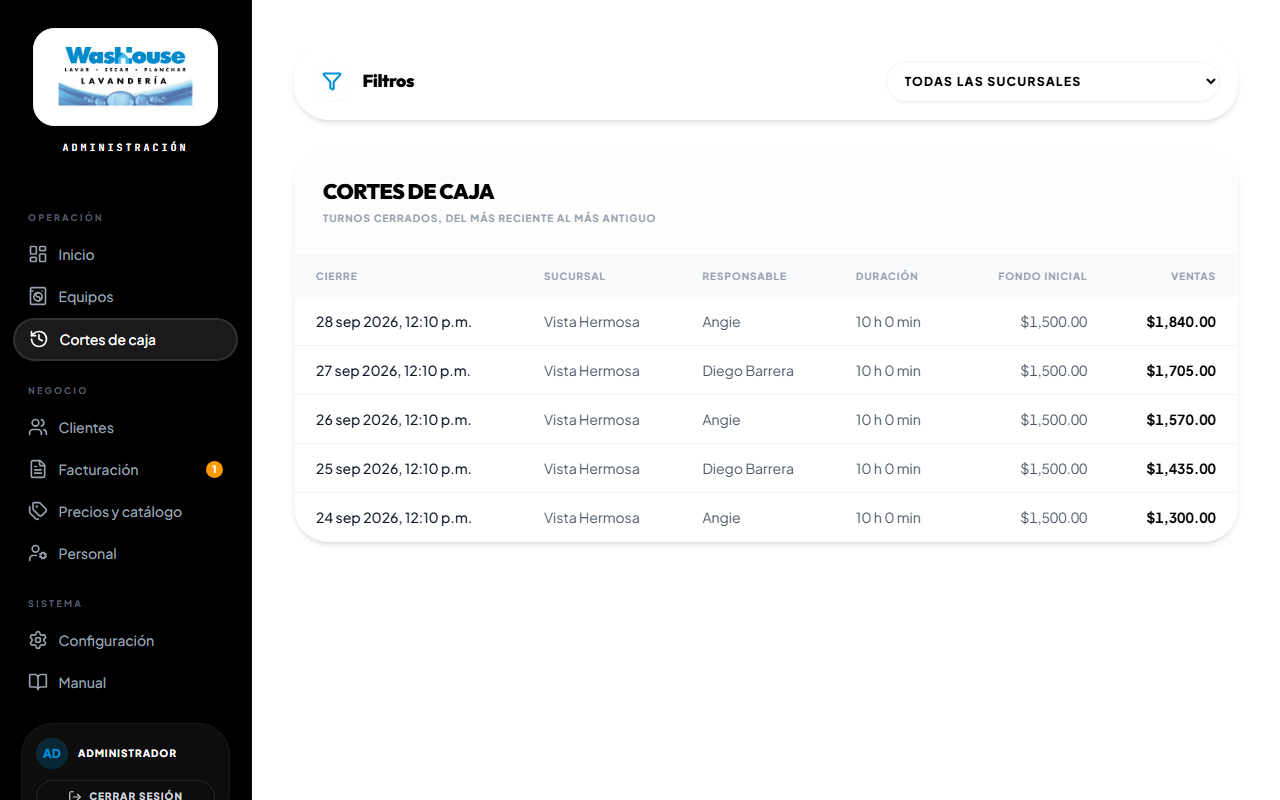
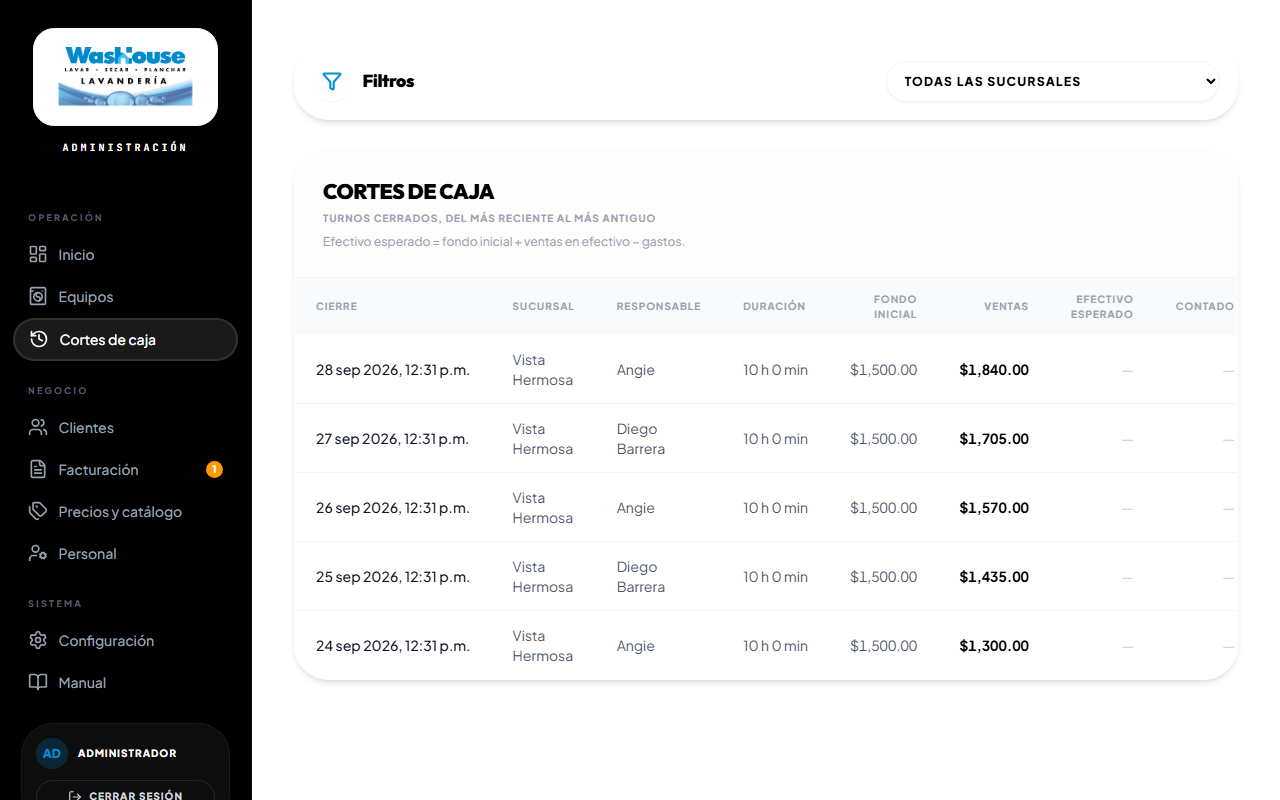
feat: el corte de caja guarda efectivo contado, esperado, diferencia y desglose
Antes solo se guardaban fondo y total vendido. Cortes de caja e Inicio
muestran ahora si el efectivo cuadró, con faltante o sobrante.

diff --git a/src/pages/ShiftsPage.jsx b/src/pages/ShiftsPage.jsx
@@ -6,6 +6,19 @@ import { formatCurrency } from '../utils/formatCurrency';
 
 const fmt = (value) => new Date(value).toLocaleString('es-MX', { dateStyle: 'medium', timeStyle: 'short' });
 
+const hasCount = (s) => s.finalCash !== null && s.finalCash !== undefined;
+
+export function DifferenceBadge({ value }) {
+    if (value === null || value === undefined) return <span className="text-gray-300">—</span>;
+    const n = Number(value);
+    if (Math.abs(n) < 0.005) return <span className="font-bold text-emerald-600">Cuadró</span>;
+    return (
+        <span className={`font-black tabular-nums ${n < 0 ? 'text-red-600' : 'text-amber-600'}`}>
+            {n > 0 ? '+' : ''}{formatCurrency(n)} {n < 0 ? 'faltante' : 'sobrante'}
+        </span>
+    );
+}
+
 const duration = (start, end) => {
     const minutes = Math.round((new Date(end) - new Date(start)) / 60000);
     if (!Number.isFinite(minutes) || minutes < 0) return '—';
@@ -28,6 +41,7 @@ export default function ShiftsPage() {
                 <div className="p-8 border-b border-gray-100 bg-gray-50/30">
                     <h1 className="text-xl font-black text-washouse-navy font-outfit tracking-tight uppercase">Cortes de caja</h1>
                     <p className="text-[10px] text-gray-400 font-bold uppercase tracking-widest mt-1">Turnos cerrados, del más reciente al más antiguo</p>
+                    <p className="text-xs text-gray-400 mt-2">Efectivo esperado = fondo inicial + ventas en efectivo − gastos.</p>
                 </div>
                 {rows.length === 0 ? (
                     <div className="p-12 text-center text-gray-500">
@@ -45,6 +59,9 @@ export default function ShiftsPage() {
                                     <th className="px-6 py-4">Duración</th>
                                     <th className="px-6 py-4 text-right">Fondo inicial</th>
                                     <th className="px-6 py-4 text-right">Ventas</th>
+                                    <th className="px-6 py-4 text-right">Efectivo esperado</th>
+                                    <th className="px-6 py-4 text-right">Contado</th>
+                                    <th className="px-6 py-4 text-right">Diferencia</th>
                                 </tr>
                             </thead>
                             <tbody className="divide-y divide-gray-100">
@@ -55,7 +72,17 @@ export default function ShiftsPage() {
                                         <td className="px-6 py-4">{s.closedBy || 'Sin nombre'}</td>
                                         <td className="px-6 py-4 whitespace-nowrap">{duration(s.startTime, s.endedAt)}</td>
                                         <td className="px-6 py-4 text-right tabular-nums">{formatCurrency(s.initialCash || 0)}</td>
-                                        <td className="px-6 py-4 text-right tabular-nums font-bold text-washouse-navy">{formatCurrency(s.totalSales || 0)}</td>
+                                        <td className="px-6 py-4 text-right tabular-nums">
+                                            <div className="font-bold text-washouse-navy">{formatCurrency(s.totalSales || 0)}</div>
+                                            {hasCount(s) && (
+                                                <div className="text-[11px] text-gray-400 whitespace-nowrap">
+                                                    Efec. {formatCurrency(s.cashSales || 0)} · Tarj. {formatCurrency(s.cardSales || 0)} · Transf. {formatCurrency(s.transferSales || 0)}
+                                                </div>
+                                            )}
+                                        </td>
+                                        <td className="px-6 py-4 text-right tabular-nums">{hasCount(s) ? formatCurrency(s.expectedDrawer || 0) : <span className="text-gray-300">—</span>}</td>
+                                        <td className="px-6 py-4 text-right tabular-nums">{hasCount(s) ? formatCurrency(s.finalCash) : <span className="text-gray-300">—</span>}</td>
+                                        <td className="px-6 py-4 text-right whitespace-nowrap"><DifferenceBadge value={s.difference} /></td>
                                     </tr>
                                 ))}
                             </tbody>

diff --git a/src/pages/AdminDashboard.jsx b/src/pages/AdminDashboard.jsx
@@ -11,6 +11,7 @@ import { exportToCSV } from '../utils/exportUtils';
 import { periodRange, inRange, daysInRange, localDayKey, PERIOD_OPTIONS } from '../utils/periods';
 import GlobalFilterBar from '../components/admin/GlobalFilterBar';
 import BranchLockout from '../components/BranchLockout';
+import { DifferenceBadge } from './ShiftsPage';
 
 const METHODS = [
     { id: 'cash', label: 'Efectivo', icon: Banknote, color: 'bg-emerald-500' },
@@ -310,7 +311,10 @@ export default function AdminDashboard() {
                                             <span className="font-bold text-washouse-navy">{s.closedBy || 'Sin nombre'}</span>
                                             <span className="font-black tabular-nums">{formatCurrency(s.totalSales || 0)}</span>
                                         </div>
-                                        <div className="text-xs text-gray-400">{new Date(s.endedAt).toLocaleString('es-MX', { dateStyle: 'medium', timeStyle: 'short' })}</div>
+                                        <div className="flex items-center justify-between text-xs">
+                                            <span className="text-gray-400">{new Date(s.endedAt).toLocaleString('es-MX', { dateStyle: 'medium', timeStyle: 'short' })}</span>
+                                            <DifferenceBadge value={s.difference} />
+                                        </div>
                                     </div>
                                 ))}
                             </div>

diff --git a/src/context/SalesContext.jsx b/src/context/SalesContext.jsx
@@ -47,7 +47,14 @@ const mapShift = (s) => ({
     initialCash: s.initial_cash,
     totalSales: s.total_sales,
     status: s.status,
-    closedBy: s.closed_by
+    closedBy: s.closed_by,
+    cashSales: s.cash_sales,
+    cardSales: s.card_sales,
+    transferSales: s.transfer_sales,
+    totalExpenses: s.total_expenses,
+    expectedDrawer: s.expected_cash,
+    finalCash: s.counted_cash,
+    difference: s.difference
 });
 
 export function SalesProvider({ children }) {
@@ -124,9 +131,16 @@ export function SalesProvider({ children }) {
             start_time: newShift.startTime,
             ended_at: newShift.endedAt || null,
             initial_cash: newShift.initialCash,
-            total_sales: newShift.totalSales ?? newShift.totalSales?.total ?? 0,
+            total_sales: newShift.totalSales ?? 0,
             status: newShift.status || 'closed',
-            closed_by: newShift.closedBy || null
+            closed_by: newShift.closedBy || null,
+            cash_sales: newShift.cashSales ?? 0,
+            card_sales: newShift.cardSales ?? 0,
+            transfer_sales: newShift.transferSales ?? 0,
+            total_expenses: newShift.totalExpenses ?? 0,
+            expected_cash: newShift.expectedDrawer ?? null,
+            counted_cash: newShift.finalCash ?? null,
+            difference: newShift.difference ?? null
         }]);
         if (error) console.error('Error saving shift remotely:', error);
     }, []);

diff --git a/src/data/manuals/admin.js b/src/data/manuals/admin.js
@@ -62,7 +62,8 @@ export const manualAdmin = {
             id: 'cortes',
             title: 'Cortes de caja',
             blocks: [
-                { type: 'img', src: img('cortes'), caption: 'Cada turno cerrado: cuándo, quién, cuánto duró, con qué fondo abrió y cuánto vendió.' },
+                { type: 'img', src: img('cortes'), caption: 'Cada turno cerrado: quién, cuánto vendió por método de pago y si el efectivo cuadró.' },
+                { type: 'p', text: '**Efectivo esperado** = fondo inicial + ventas en efectivo − gastos. **Contado** es lo que el mostrador declaró al cerrar. La **diferencia** sale en rojo si faltó dinero y en ámbar si sobró.' },
                 { type: 'p', text: 'Si un corte no cuadró, revisa también la **Bitácora** de ese día en Configuración: dice qué pasó, cuándo y quién lo hizo.' }
             ]
         },
